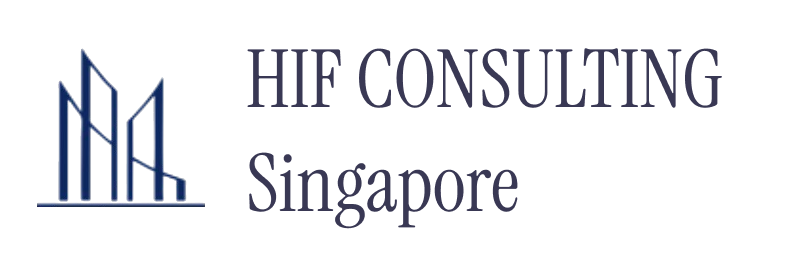
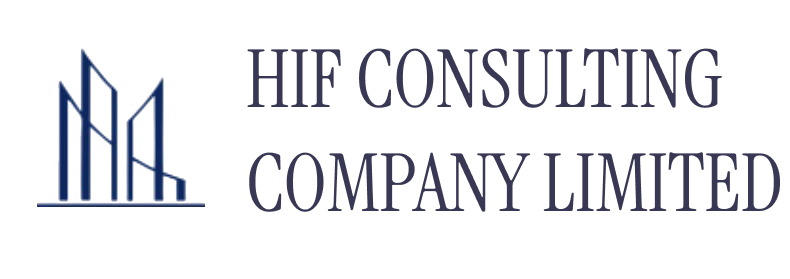
first commit

Changed region(s): [[0.3038, 0.5448, 1.0, 0.8315]]

diff --git a/src/Business.js b/src/Business.js
@@ -13,7 +13,7 @@ function Business() {
                 <div className="box">
                     <img src={trading} alt="trading-icon"/>
                     <h1 className="text-white text-center text-2xl">Golden Visa Immigration Investment Consulting</h1>
-                    <p>At HIF Consulting Singapore Pte Ltd., we are dedicated to guiding you through each step of your investment journey toward a secure and prosperous future. With a specialized focus on Golden Visa programs, we provide expert consulting that simplifies the immigration process while maximizing investment potential in some of the world's most desirable markets. Discover the advantages of global mobility and secure investments with a partner who puts your success at the heart of everything we do.</p>
+                    <p>At HIF CONSULTING COMPANY LIMITED, we are dedicated to guiding you through each step of your investment journey toward a secure and prosperous future. With a specialized focus on Golden Visa programs, we provide expert consulting that simplifies the immigration process while maximizing investment potential in some of the world's most desirable markets. Discover the advantages of global mobility and secure investments with a partner who puts your success at the heart of everything we do.</p>
                 </div>
                 <div className="box">
                     <img src={building} alt="building-icon"/>

diff --git a/src/Careers.js b/src/Careers.js
@@ -37,7 +37,7 @@ function Careers() {
                         <li>As a real estate developer, HIF develops real estate cash projects like student residence in Athens, Greece, to cater to investors participating in the Greek Golden Visa program.</li>
                         <li>Selecting prime project locations with easy access to business and academic hubs to deliver strong and sustainable ROI as well as maximize financial benefits for investors over the long haul.</li>
                         <li>Developing value projects such as luxury family apartments, serviced apartments and hotels, providing an exceptional living experience for our partners and investors.</li>
-                        <li>As a consulting firm, HIF Consulting Singapore Pte Ltd, helps HIF clients navigate the best property for Golden Visa investment for their families.</li>
+                        <li>As a consulting firm, HIF CONSULTING COMPANY LIMITED, helps HIF clients navigate the best property for Golden Visa investment for their families.</li>
                     </ul>
                 </p>
                 <h2 className="pt-5 text-xl pb-2 md:w-[250px] w-[205px]" style={{borderBottom: '5px solid #021d68'}}>Some of Hellenic Investment Fund Projects</h2>

diff --git a/src/components/Footer.js b/src/components/Footer.js
@@ -1,11 +1,11 @@
 import React from 'react';
 import './Footer.css';
 import { FaCopyright } from 'react-icons/fa';
-import soil from '../images/nasa.jpg';
+import soil from '../images/halong.jpg';
 
 function Footer() {
     return (
-        <div className='footer p-5' style={{
+        <div className='footer pl-5 pr-5 pt-6 pb-2' style={{
             backgroundImage: `url(${soil})`,
             backgroundPosition: 'center',
             backgroundSize: 'cover'
@@ -31,7 +31,7 @@ function Footer() {
                 <div className='bottom'>
                     <span className='line'></span>
                     <hr/>
-                    <p className='pt-5 flex items-center gap-[12px]'><FaCopyright /> {new Date().getFullYear()} HIF CONSULTING (SINGAPORE) PTE. LTD. All rights reserved</p>
+                    <p className='pt-5 flex items-center gap-[12px]'><FaCopyright /> {new Date().getFullYear()} HIF CONSULTING COMPANY LIMITED. Công ty TNHH Tư Vấn HIF. All rights reserved.</p>
                 </div>
             </div>
         </div>

diff --git a/src/About.js b/src/About.js
@@ -21,7 +21,7 @@ function About() {
                         We also specialize in the procurement, storage, and delivery of bulk materials, we serve clients across the world. Our commitment to responsible trade ensures we consistently meet the highest standards in operational efficiency, safety, and quality throughout our supply chain.
                     </p>
                     <p className="pb-5 pl-1 pr-1 mt-1 mb-2">
-                        HIF CONSULTING (SINGAPORE) PTE. LTD. was founded with a mission to support both developing and established resource companies, united by a vision to create a brighter, more sustainable future for the industry.
+                        HIF CONSULTING COMPANY LIMITED (TNHH Tư Vấn HIF) was founded with a mission to support both developing and established resource companies, united by a vision to create a brighter, more sustainable future for the industry.
                     </p>
                 </div>
             </div>

diff --git a/public/index.html b/public/index.html
@@ -7,7 +7,7 @@
     <meta name="theme-color" content="#000000" />
     <meta
       name="description"
-      content="Hellenic Investment Fund Singapore (HIF SG) is a branch of Hellenic Investment Fund IKE Co (HIF)."
+      content="HIF Consulting Company Limited is a branch of Hellenic Investment Fund IKE Co (HIF) in Vietnam."
     />
     <link rel="apple-touch-icon" href="%PUBLIC_URL%/logo.png" />
     <!--
@@ -24,7 +24,7 @@
       work correctly both with client-side routing and a non-root public URL.
       Learn how to configure a non-root public URL by running `npm run build`.
     -->
-    <title>HIF Singapore</title>
+    <title>HIF CONSULTING COMPANY LIMITED (Vietnam)</title>
   </head>
   <body>
     <noscript>You need to enable JavaScript to run this app.</noscript>

diff --git a/src/Home.js b/src/Home.js
@@ -6,7 +6,7 @@ import background from './images/background.png';
 function Home() {
     return (
         <div id='home'>
-        <div style={{marginTop: '80px', clear: 'both'}}></div>
+        <div style={{marginTop: '70px', clear: 'both'}}></div>
         <img src={background} alt="background" />
         
         {/* <Carousel

diff --git a/src/components/Footer.css b/src/components/Footer.css
@@ -20,16 +20,16 @@
 }
 
 .footer li a {
-    color: #fff;
+    color: #121212;
 }
 
 .footer li a:hover {
     padding-bottom: 12px;
-    border-bottom: 3px solid #fff;
+    border-bottom: 3px solid #555555;
 }
 
 .bottom {
-    padding-top: 3rem;
+    padding-top: 7rem;
 }
 
 .line {
